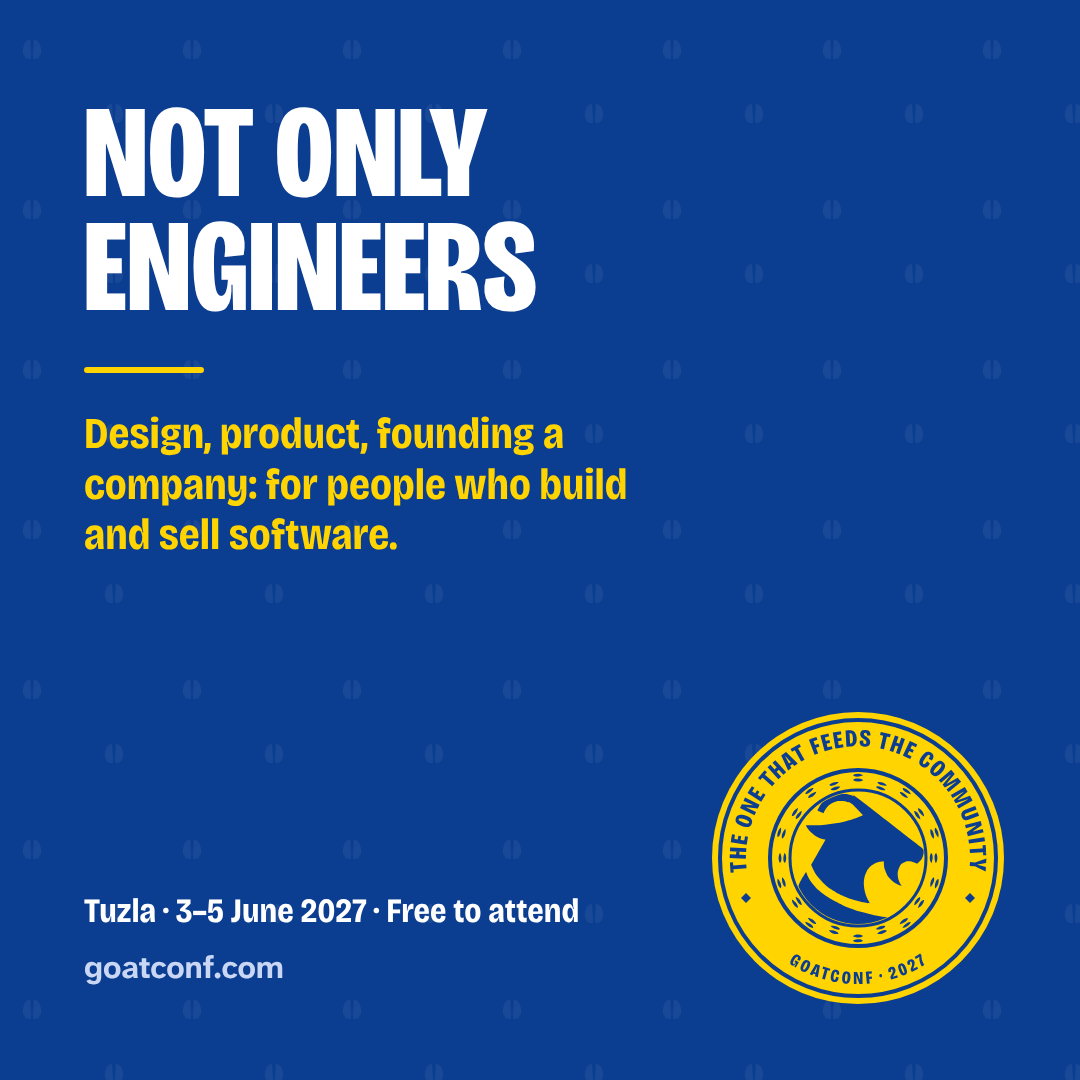
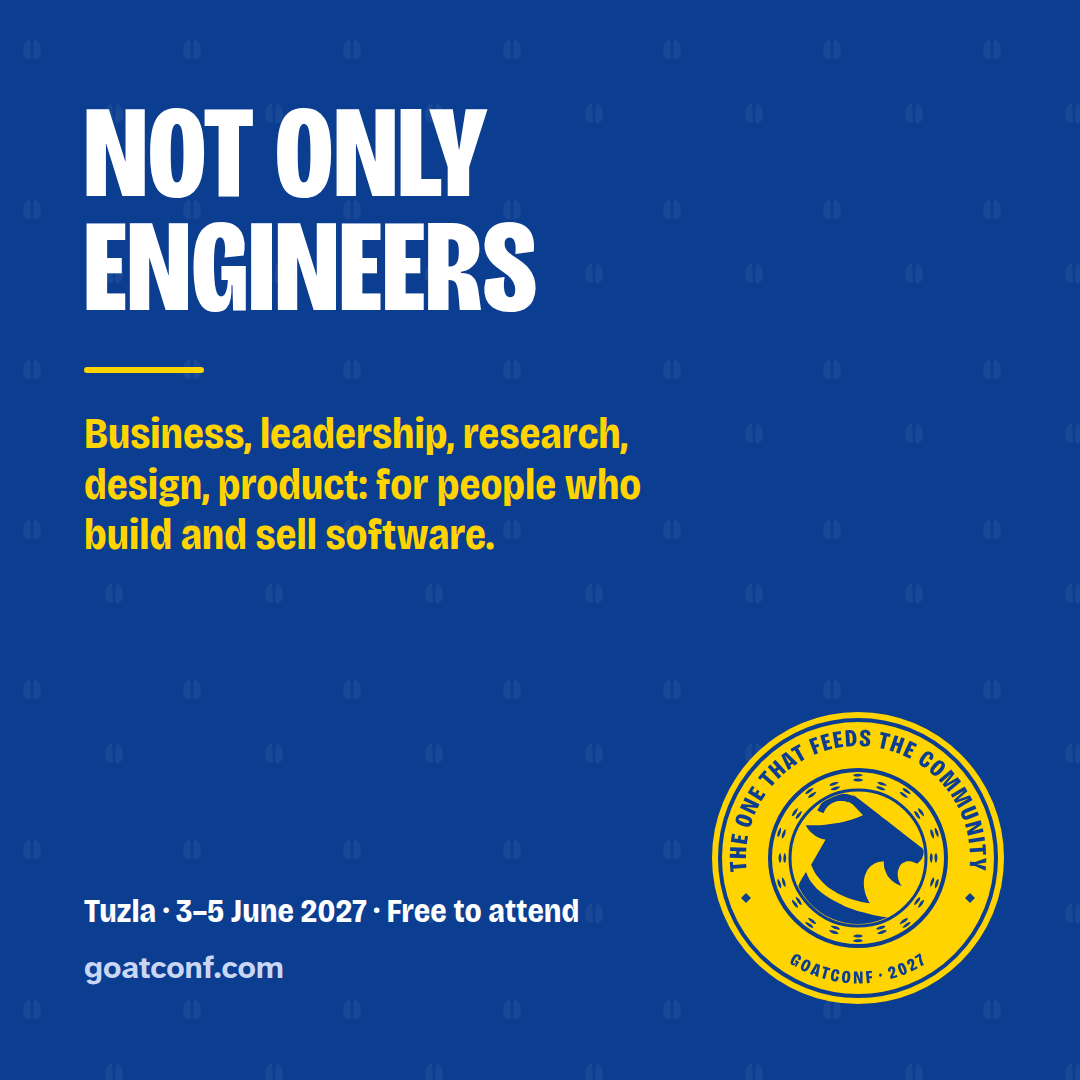
site: business, people and research sessions are welcome, for a technical room
The talk page names research, the business of software and the people
side of the work next to engineering, design and product; says no code is
needed to speak but the audience is technical; and asks for something
people can use or build on, not a pitch. The home page, the "Not only
engineers" card and the two drafted posts about the call follow.

diff --git a/files/site/talk.html b/files/site/talk.html
@@ -75,7 +75,17 @@ Thursday 3rd June 2027: 10:00, 12:00, 14:00 or 16:00.<br>Friday 4th June 2027: 0
 <li><strong>Recording.</strong> GoatConf aims to record the sessions in the two big halls of IPI Academy, the main hall and the first-floor hall. This is not promised yet, as it depends on the available budget.</li>
 </ul>
 <h2>Who we are looking for</h2>
-<p>People with something worth an hour: engineering in any programming language or stack, design, product, founding a company. First-time speakers are welcome. A strong idea counts for more than a famous name.</p>
+<p>People with something worth an hour, from their own work or research. GoatConf is a technical conference for people who build and sell software, and every session is for them. A session can be about any part of that work:</p>
+<ul>
+<li><strong>Engineering,</strong> in any programming language or stack.</li>
+<li><strong>Design and product.</strong></li>
+<li><strong>Research,</strong> from a university, a lab or a company, on how software is built, run or used.</li>
+<li><strong>The business of software:</strong> founding a company, first customers, pricing, selling, hiring, funding or bootstrapping.</li>
+<li><strong>The people side of the work:</strong> leading teams, careers, communication, working with clients.</li>
+</ul>
+<p>You do not need to write code to speak here, but the room is technical: a business, people or research session is for people who build software, and speaks to them as such.</p>
+<p>What matters is that people leave with something they can use or build on: a story from your own work, a way to think through a problem, or advice. Honest lessons are welcome, including what did not work. A pitch for your product or company does not fit, and neither does motivation with nothing to take home.</p>
+<p>First-time speakers are welcome. A strong idea counts for more than a famous name.</p>
 <h2>How a session is picked</h2>
 <ol>
 <li><strong>You send your idea</strong> through the form. It takes about fifteen minutes.</li>

diff --git a/files/site/index.html b/files/site/index.html
@@ -122,7 +122,7 @@
   <div class="page-grid">
     <div class="copy">
       <p>The call is open, with no strict deadline, and it is for more than talks. Every slot is one hour, and you choose what happens in it: a talk, a panel, a workshop, or something else, like live coding, a hands-on lab, a fireside chat or a debate. Half an hour is fine too: short sessions may be paired into one hour.</p>
-      <p>First-time speakers are welcome, from any field: engineering, design, product, founding a company.</p>
+      <p>First-time speakers are welcome, from any part of building and selling software: engineering, design, product, research, the business of software, and the people side of the work. You do not need to write code to speak here, but the audience is technical. Bring something they can use or build on, from your own work, not a pitch.</p>
       <p>Sessions are picked for their quality, never for who is paying.</p>
     </div>
     <div class="howto">

diff --git a/files/tools/shareables.py b/files/tools/shareables.py
@@ -125,7 +125,7 @@ POSTS = {
     "your-first-talk": ("Your<br>first talk?", "First-time speakers are welcome. A strong idea counts for more than a famous name."),
     "see-you-in-june": ("See you<br>in June", "Two days of talks in Tuzla, then a day for the community."),
     "whos-organising": ("Who's<br>organising", "The organiser of EuRuKo 2024 and RubyConf Austria."),
-    "not-only-engineers": ("Not only<br>engineers", "Design, product, founding a company: for people who build and sell software."),
+    "not-only-engineers": ("Not only<br>engineers", "Business, leadership, research, design, product: for people who build and sell software."),
     "support-goatconf": ("Support<br>GoatConf", "One level, 500 euro, online only. Nothing at the venue."),
     "panels-and-workshops": ("Panels and<br>workshops", "Two computer centres, with 20 and 26 seats, for hands-on sessions."),
     "with-or-without-meat": ("With or<br>without<br>meat", "Ask for posno: made without meat."),

diff --git a/files/sources/conversations/2026-10-19--org--business-and-people-sessions.md b/files/sources/conversations/2026-10-19--org--business-and-people-sessions.md
@@ -1,0 +1,45 @@
+---
+title: "Business, soft-skill and research sessions are welcome, for a technical audience that builds and sells software"
+date: 2026-10-19
+kind: conversation
+---
+
+A prospective speaker wrote to the organiser, who passed the message on
+verbatim:
+
+> Would you be open to some business talk? I’m not much of a developer nowadays 😅
+
+The organiser wrote, verbatim:
+
+> Maybe we should make it clear that this conference also welcomes soft skill talks? Business talks from founders related to technology and software.
+
+Shown three wordings, they answered, verbatim:
+
+> I still want like useful experiences for someone in the audience to learn and be able to utilize to improve themselves, inspire and build on top.... Idk explore what makes sense for a builders/founders conference, come with suggestions and I can choose
+
+The agent looked at how three conferences describe the sessions they want:
+MicroConf asks for a story, a framework or advice
+(https://microconf.com/pitches); Business of Software wants clear
+takeaways from people who have done the work, and turns down product
+launches and pitches
+(https://businessofsoftware.org/2013/03/how-to-submit-a-killer-business-of-software-conference-speaker-proposal-and-how-to-guarantee-you-will-never-get-to-speak/);
+LeadDev groups talks under team, tech, process and personal development
+and asks for practical insights and honest lessons
+(https://leaddev.com/get-involved/become-a-leaddev-speaker).
+
+Offered four things the call could say, the organiser picked all four:
+
+- name the topics: engineering, design and product, the business of
+  software (founding a company, first customers, pricing, selling, hiring,
+  funding or bootstrapping) and the people side of the work (leading
+  teams, careers, communication, working with clients);
+- set the bar: from the speaker's own work, something people can use or
+  build on, a story, a framework or advice, with honest lessons including
+  what did not work welcome;
+- say what does not fit: a pitch for the speaker's product or company, or
+  motivation with nothing to take home;
+- one line: "You do not need to write code to speak here."
+
+While the change was being made, the organiser added, verbatim:
+
+> We should also open it up to folks to present their research. We need to keep the conference in the domain of those who build and sell software though. Technical conference. Content meant for technical people

diff --git a/files/wiki/index.md b/files/wiki/index.md
@@ -18,6 +18,7 @@ what is proposed is on the [pitches hub](org/pitches/index.md).
 ## What changed
 
 <!-- home-section: filled; maintained-by: /shape; updated: 2026-10-19 -->
+- **2026-10-19**: **Business, people and research sessions are welcome, for a technical room.** The talk page now names research, the business of software and the people side of the work next to engineering, design and product, says no code is needed to speak but the room is technical, and asks for something people can use or build on, not a pitch; the home page, the "Not only engineers" card and the two drafted posts about the call say the same ([drumbeat 2026](org/outreach/drumbeat-2026.md), [drumbeat 2027](org/outreach/drumbeat-2027-jan-mar.md); source: sources/conversations/2026-10-19--org--business-and-people-sessions.md).
 - **2026-10-19**: **The page frame ADR is built.** All five steps landed (#125 to #129); the ADR's build notes list them ([the ADR](org/adrs/one-page-frame-and-one-site-build.md); source: sources/conversations/2026-10-19--org--site-frame-adr-approved.md).
 - **2026-10-19**: **The day times, typed once.** The core days' hours, welcome times and slot times now come only from the program's day plan: the program page's prose, the register page's day list and the talk page's slot times (as marked parts `tools/program.py` writes), llms.txt, the calendar file and the share cards follow it, and a test proves a changed day reaches all of them. The last step of the [page frame ADR](org/adrs/one-page-frame-and-one-site-build.md) (source: sources/conversations/2026-10-19--org--site-frame-adr-approved.md).
 - **2026-10-19**: **One build, one marker style.** `tools/site.py build` writes the whole site in the order its generators depend on each other, and `site.py check` is what the local CI runs for every record, generated page and part, and the HTML. Every generated part of a page is marked `<!-- gen:NAME tools/TOOL.py -->`, naming the tool that writes it. The pages changed only in their markers. Step 4 of the [page frame ADR](org/adrs/one-page-frame-and-one-site-build.md) (source: sources/conversations/2026-10-19--org--site-frame-adr-approved.md).

diff --git a/files/wiki/org/outreach/drumbeat-2026.md b/files/wiki/org/outreach/drumbeat-2026.md
@@ -2,11 +2,12 @@
 title: "The drumbeat, October to December 2026"
 kind: reference
 status: draft
-updated: 2026-10-18
+updated: 2026-10-19
 confidence: medium
 affects:
   - org
 sources:
+  - sources/conversations/2026-10-19--org--business-and-people-sessions.md
   - sources/conversations/2026-10-18--org--social-plan-to-june.md
   - sources/conversations/2026-10-15--org--drafting-the-first-posts.md
   - sources/conversations/2026-10-15--org--announcing-on-linkedin-and-x.md
@@ -78,7 +79,7 @@ The posts in the order they go out. The calendar, the rules and what to do when 
   >
   > Every slot is one hour, in one of the seven rooms at IPI Academy in Tuzla, on Thursday 3 or Friday 4 June 2027. You choose what happens in it: a talk, a panel, a workshop, or something else, like live coding, a hands-on lab, a fireside chat or a debate.
   >
-  > Engineering in any language or stack, design, product, founding a company: all welcome, and first-time speakers too. The organiser reads every proposal, the session first and your name after, and you hear back whatever the answer.
+  > Engineering in any language or stack, design, product, research, the business of software and the people side of the work: all welcome, and first-time speakers too. You do not need to write code to speak; bring something the technical people in the room can use or build on. The organiser reads every proposal, the session first and your name after, and you hear back whatever the answer.
   >
   > Propose a session in about fifteen minutes: goatconf.com/talk
 

diff --git a/files/wiki/org/outreach/drumbeat-2027-jan-mar.md b/files/wiki/org/outreach/drumbeat-2027-jan-mar.md
@@ -2,11 +2,12 @@
 title: "The drumbeat, January to March 2027"
 kind: reference
 status: draft
-updated: 2026-10-18
+updated: 2026-10-19
 confidence: medium
 affects:
   - org
 sources:
+  - sources/conversations/2026-10-19--org--business-and-people-sessions.md
   - sources/conversations/2026-10-18--org--social-plan-to-june.md
   - sources/conversations/2026-10-15--org--drafting-the-first-posts.md
   - sources/conversations/2026-10-15--org--announcing-on-linkedin-and-x.md
@@ -144,7 +145,7 @@ The posts in the order they go out. The calendar, the rules and what to do when 
   >
   > Designers, product people, founders and engineers in any language or stack: the sessions are for all of you, and so is the hour off after each one, on Freedom Square, where the conversations happen.
   >
-  > If you work on product, design or running a company, the call is open to you too: a talk, a panel, a workshop or something else, one hour, in Tuzla on 3 or 4 June.
+  > If you work on product, design, research, running a company or leading people, the call is open to you too, and you do not need to write code to speak: a talk, a panel, a workshop or something else, one hour, in Tuzla on 3 or 4 June. Bring something the technical people in the room can use or build on, from your own work.
   >
   > goatconf.com/talk
 
